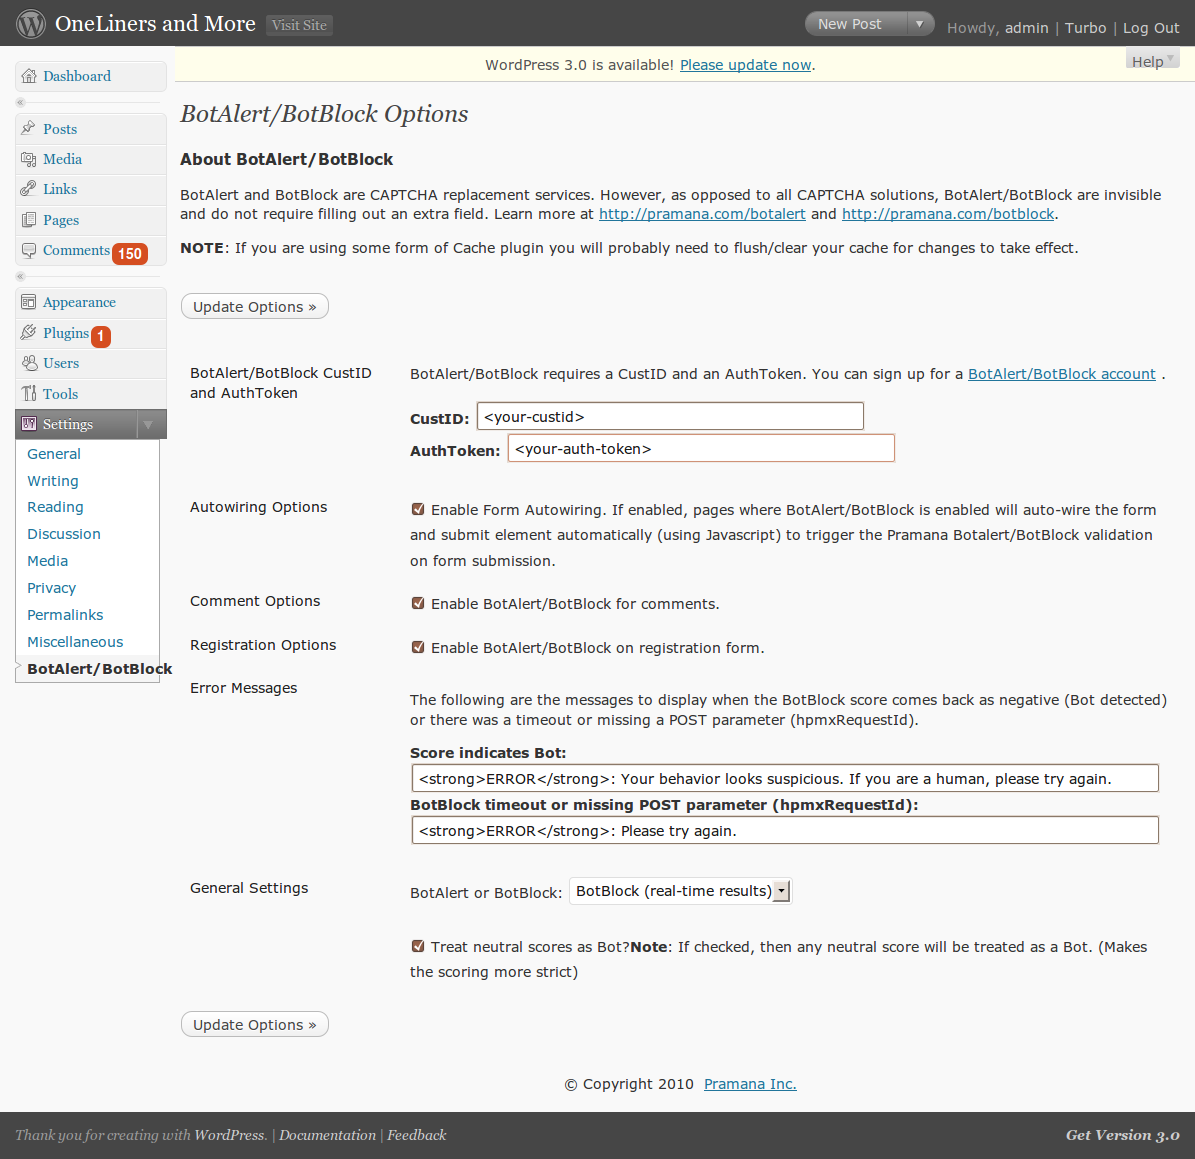
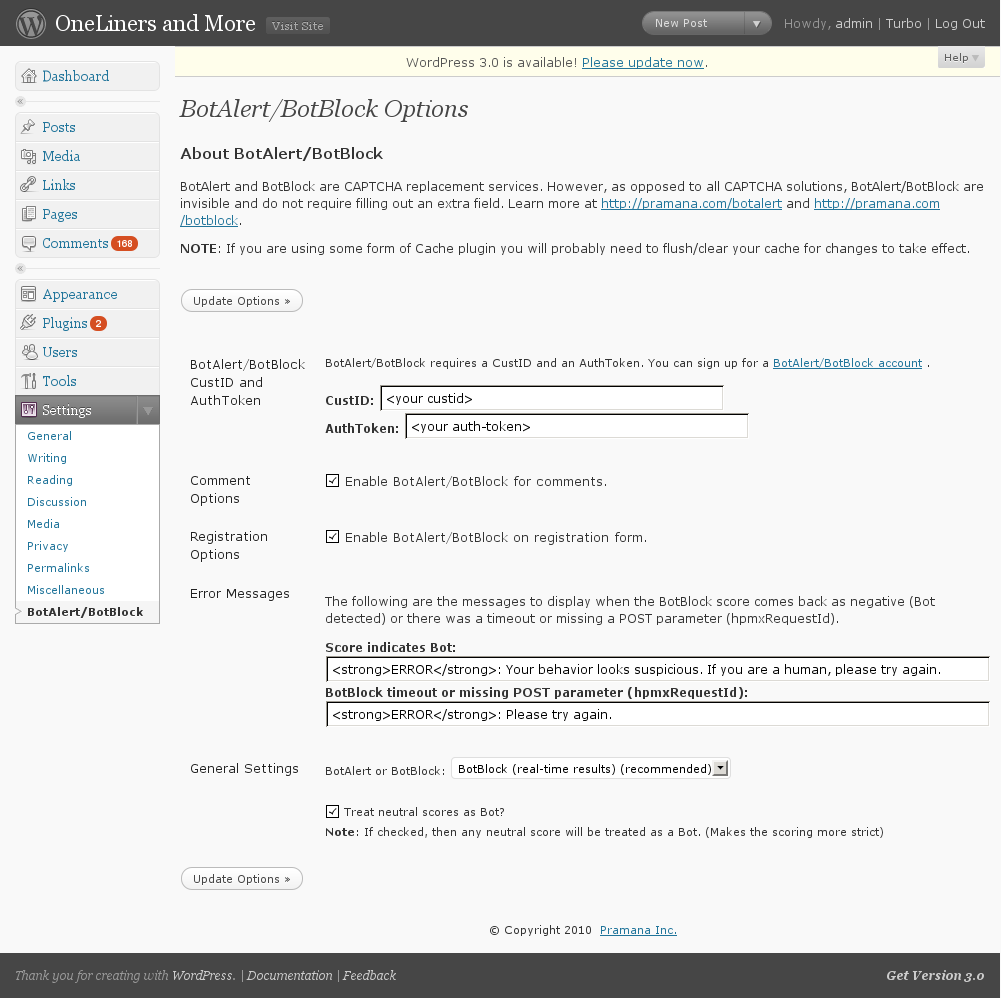
wordpress botalert/botblock plugin, release 1.0.0 - this release passes all data through the plugin instead of the user's browser. this makes the communication flow more reliable, and it will work with any wordpress theme. no changes to theme templates needed anymore either.

diff --git a/wordpress/wp-botalert/wp-botalert.php b/wordpress/wp-botalert/wp-botalert.php
@@ -1,9 +1,9 @@
 <?php
 /*
-Plugin Name: WP-BotAlert
+Plugin Name: BotAlertBotBlock
 Plugin URI: http://code.google.com/p/botalert-botblock
 Description: Integrates BotAlert/BotBlock anti-spam solutions with wordpress
-Version: 0.9.5
+Version: 1.0.0
 Author: Pramana Inc.
 Email: websupport@pramana.com
 Author URI: http://www.pramana.com
@@ -65,10 +65,7 @@ function embed_botalert($errors) {
 	else {
             echo ($_GET['rerror']? '<p class="error">RERROR3' . $_GET['rerror'] . '</p>': '');
         }
-        if ($botalert_opt['ba_use_autowire'])
-	    echo botalert_AUTHenticateAUTOWIRE($botalert_opt['custid'], $botalert_opt['authtoken'], 'registerform', 'wp-submit', 'user_login');
-        else
-	    echo botalert_AUTHenticate($botalert_opt['custid'], $botalert_opt['authtoken']);
+        echo botalert_ACODE($botalert_opt['custid'], $botalert_opt['authtoken']);
     }
 }
 
@@ -86,7 +83,7 @@ function check_botalert_score() {
 		$errors['blank_captcha'] = $botalert_opt['botalert_error'];
    
    else {
-	$botalert_result = botalert_VERD();
+	$botalert_result = botalert_VALI($_POST['user_login']);
 	if ( ! $botalert_result )
 		$errors['captcha_wrong'] = $botalert_opt['botalert_isbot'];
    }
@@ -101,7 +98,7 @@ function check_botalert_score_new($errors) {
 		return $errors;
    }
    
-	$botalert_result = botalert_VERD();
+	$botalert_result = botalert_VALI($_POST['user_login']);
 	if (! $botalert_result )
 		$errors->add('captcha_wrong', $botalert_opt['botalert_isbot']);
    
@@ -126,7 +123,7 @@ function check_botalert_score_wpmu($result) {
       	return $result;
       }
 
-	$botalert_result = botalert_VERD();
+	$botalert_result = botalert_VALI($_POST['user_login']);
 	if ( ! $botalert_result ) {
       		$result['errors']->add('captcha_wrong', $botalert_opt['botalert_isbot']);
             echo "<div class=\"error\">". $botalert_opt['botalert_isbot'] . "</div>";
@@ -163,7 +160,6 @@ $option_defaults = array (
    'treat_neutral_as_bad' => '0', // whether to treat a neutral score as Bot or Human
    'ba_comments' => '1', // whether or not to use BotAlert/BotBlock on the comment post
    'ba_registration' => '1', // whether or not to use BotAlert/BotBlock on the registration page
-   'ba_use_autowire' => '1', //  whether or not to use auto-wiring of the submit button for BotAlert/BotBlock protected pages
    'botalert_error' => '<strong>ERROR</strong>: Please try again.', // timeout/hpmx error (eg. hpmxRequestId missing)
    'botalert_isbot' => '<strong>ERROR</strong>: Your behavior looks suspicious. If you are a human, please try again.', // the message to display when the user is classified as Bot by BotBlock
 );
@@ -221,10 +217,8 @@ function botalert_comment_form() {
 			<input name="submit" type="submit" id="submit-alt" tabindex="6" value="Submit Comment"/> 
 		</noscript>
 COMMENT_FORM;
-        if ($botalert_opt['ba_use_autowire'])
-	    $ba_snippet = botalert_AUTHenticateAUTOWIRE($botalert_opt['custid'], $botalert_opt['authtoken'], 'commentform', 'submit', 'email');
-        else
-	    $ba_snippet = botalert_AUTHenticate($botalert_opt['custid'], $botalert_opt['authtoken']);
+
+        $ba_snippet = botalert_ACODE($botalert_opt['custid'], $botalert_opt['authtoken']);
 	echo $ba_snippet . $comment_string;
 }
 
@@ -253,7 +247,7 @@ function botalert_wp_check_comment($comment_data) {
 	if (botalert_wp_get_for_comment()) {
 		if ( $comment_data['comment_type'] == '' ) { // Do not check trackbacks/pingbacks
 
-			$botalert_result = botalert_VERD();
+			$botalert_result = botalert_VALI($_POST['email']);
 			if ($botalert_result)
 				return $comment_data;
 			else {
@@ -266,10 +260,11 @@ function botalert_wp_check_comment($comment_data) {
 	return $comment_data;
 }
 
-function botalert_VERD() {
+function botalert_VALI($refid) {
 	global $botalert_opt;
-	return botblock_VERDict($botalert_opt['custid'], $botalert_opt['authtoken'], $_POST['hpmxRequestId'], $botalert_opt['treat_neutral_as_bad']);
+        return botalert_VALIandVERD($botalert_opt['custid'], $botalert_opt['authtoken'], $_POST['hpmxRequestId'], $refid, $botalert_opt['have_botblock'], ! $botalert_opt['treat_neutral_as_bad']);
 }
+
 
 /*
  * If the BotBlock score indicated Bot from botalert_wp_check_comment, then redirect back to the comment form 
@@ -346,7 +341,6 @@ function botalert_wp_options_subpanel() {
 		'treat_neutral_as_bad' => '',
 		'ba_comments' => '1',
 		'ba_registration' => '1',
-                'ba_use_autowire' => '1',
       'botalert_error' => '<strong>ERROR</strong>: Please try again.',
       'botalert_isbot' => '<strong>ERROR</strong>: Your behavior looks suspicious. If you are a human, please try again.',
 		);
@@ -363,7 +357,6 @@ function botalert_wp_options_subpanel() {
 		'treat_neutral_as_bad' => $_POST['treat_neutral_as_bad'],
 		'ba_comments' => $_POST['ba_comments'],
 		'ba_registration' => $_POST['ba_registration'],
-                'ba_use_autowire' => $_POST['ba_use_autowire'],
       'botalert_error' => $_POST['botalert_error'],
       'botalert_isbot' => $_POST['botalert_isbot'],
 		);
@@ -445,14 +438,6 @@ function botalert_dropdown_capabilities($select_name, $checked_value="") {
 	    </td>
     </tr>
   	<tr valign="top">
-		<th scope="row">Autowiring Options</th>
-		<td>
-			<!-- Whether or not to auto-wire the forms to trigger the BotAlert/BotBlock validation -->
-			<big><input type="checkbox" name="ba_use_autowire" id="ba_use_autowire" value="1" <?php if($optionarray_def['ba_use_autowire'] == true){echo 'checked="checked"';} ?> /> <label for="ba_use_autowire">Enable Form Autowiring. If enabled, pages where BotAlert/BotBlock is enabled will auto-wire the form and submit element automatically (using Javascript) to trigger the Pramana Botalert/BotBlock validation on form submission.</label></big>
-			<br />
-		</td>
-	</tr>
-  	<tr valign="top">
 		<th scope="row">Comment Options</th>
 		<td>
 			<!-- Use BotAlert/BotBlock on the comment post -->
@@ -492,13 +477,13 @@ function botalert_dropdown_capabilities($select_name, $checked_value="") {
 				<div style="vertical-align: middle !important;">
 					<label for="have_botblock">BotAlert or BotBlock:</label>
 					<select name="have_botblock" id="have_botblock">
+						<option value="1" <?php if($optionarray_def['have_botblock'] == '1'){echo 'selected="selected"';} ?>>BotBlock (real-time results) (recommended)</option>
 						<option value="0" <?php if($optionarray_def['have_botblock'] == '0'){echo 'selected="selected"';} ?>>BotAlert</option>
-						<option value="1" <?php if($optionarray_def['have_botblock'] == '1'){echo 'selected="selected"';} ?>>BotBlock (real-time results)</option>
 					</select>
 			    	</div>
 				<br />
 		    	<!-- Whether or not to be XHTML 1.0 Strict compliant -->
-				<input type="checkbox" name="treat_neutral_as_bad" id="treat_neutral_as_bad" value="1" <?php if($optionarray_def['treat_neutral_as_bad'] == true){echo 'checked="checked"';} ?> /> <label for="treat_neutral_as_bad">Treat neutral scores as Bot?<strong>Note</strong>: If checked, then any neutral score will be treated as a Bot. (Makes the scoring more strict)</label>
+				<input type="checkbox" name="treat_neutral_as_bad" id="treat_neutral_as_bad" value="1" <?php if($optionarray_def['treat_neutral_as_bad'] == true){echo 'checked="checked"';} ?> /> <label for="treat_neutral_as_bad">Treat neutral scores as Bot?<strong><BR>Note</strong>: If checked, then any neutral score will be treated as a Bot. (Makes the scoring more strict)</label>
 				<br />
 			</td>
 		</tr>
@@ -547,6 +532,33 @@ if ( !($botalert_opt ['custid'] && $botalert_opt['authtoken'] ) && !isset($_POST
    
    return;
 }
+
+// If no curl support found
+if( !function_exists("curl_init") ) {
+   function botalert_warning() {
+		global $wpmu;
+		
+		$path = plugin_basename(__FILE__);
+		$top = 0;
+		if ($wp_version <= 2.5)
+		$top = 12.7;
+		else
+		$top = 7;
+		echo "
+		<div id='botalert-warning' class='updated fade-ff0000'><p><strong>BotAlert/BotBlock is not active</strong> You must install <A HREF='http://php.net/manual/en/book.curl.php'>php-cURL</A> for it to work</p></div>
+		<style type='text/css'>
+		#adminmenu { margin-bottom: 5em; }
+		#botalert-warning { position: absolute; top: {$top}em; }
+		</style>
+		";
+   }
+   
+   if (($wpmu == 1 && is_site_admin()) || $wpmu != 1)
+		add_action('admin_footer', 'botalert_warning');
+   
+   return;
+}
+
 
 
 
